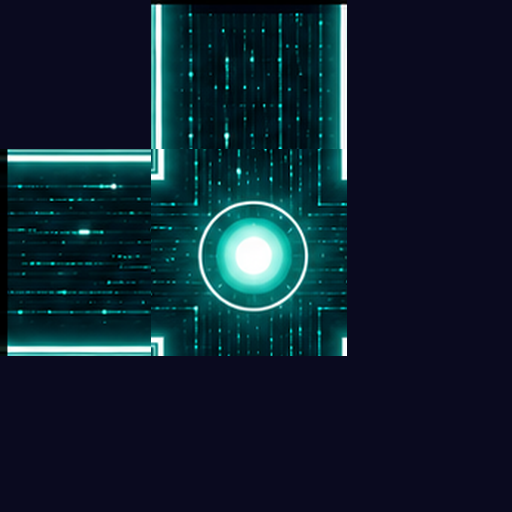
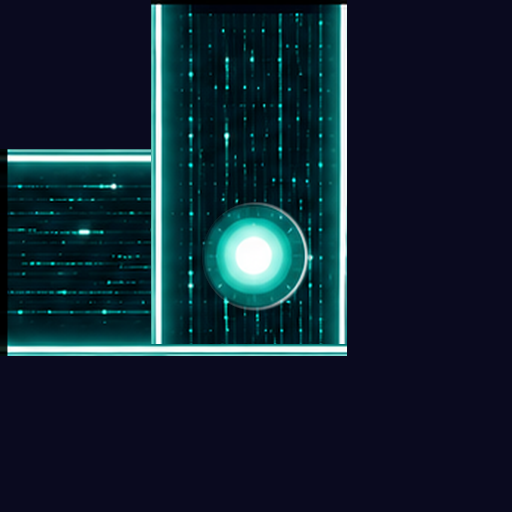
feat: v3 타일셋 + 직각 코너 합성 + 픽셀 정렬 규칙 명시
- TILE_PROMPT_V3: 모든 conduit 라인 (256,256) 통과 / 폭 204px 고정 /
  인접 타일 자연스러운 연결의 3 절대 규칙을 ALL-IN-ONE 프롬프트 상단에 명시
- 코너 4종(cor-ne/nw/se/sw): cross 중심 사용 → conduit body로 채운 후
  outer L-rail만 다시 긋고 노드는 alpha 마스크로 추출하는 방식으로 변경.
  닫힌 quadrant로 새어나오던 rail 스텁 제거.
- scripts/build-v3-tileset.py: 코너 / T / cross를 case별로 분기 처리
  (코너는 L-rail 복원, T·cross는 cross 그대로 사용)

Changed region(s): [[0.2812, 0.2812, 0.6875, 0.7188]]

diff --git a/scripts/build-v3-tileset.py b/scripts/build-v3-tileset.py
@@ -139,40 +139,120 @@ print(f'  보정 후 str-v rails (cols): {sv_rails}')
 
 
 # ---------- 3단계: corner / T 합성 ----------
+def extract_node(cross_arr, rh, rv):
+    """cross.png의 중앙에서 node 원형 + glow만 추출 (주변 rail은 제외).
+    중심에서 일정 반경 안의 픽셀만 alpha로 뽑아냄."""
+    H, W = cross_arr.shape[:2]
+    cx, cy = W // 2, H // 2
+    # node 반경 추정: 노드 코어가 충분히 들어가는 정도. cross 중앙에 원형 노드가 있다는 가정.
+    # 안전한 반경: conduit 폭의 ~25%
+    cv0, cv1 = rv
+    ch0, ch1 = rh
+    node_r = min(cv1 - cv0, ch1 - ch0) // 4  # 약 conduit의 1/4
+    yy, xx = np.ogrid[:H, :W]
+    dist = np.sqrt((xx - cx) ** 2 + (yy - cy) ** 2)
+    # 부드러운 원형 마스크 (반경 안쪽은 1, 바깥은 0, 가장자리 페이드)
+    fade = 6
+    mask = np.clip((node_r + fade - dist) / fade, 0, 1)
+    return mask  # shape (H, W), 0~1
+
+
+def fill_body_strip(out, cv0, cv1, ch0, ch1, source_arr, axis='vertical'):
+    """중앙 junction을 source_arr의 conduit body (rail 제외)로 채움."""
+    # source_arr는 str-v 또는 str-h. axis='vertical'이면 str-v를 쓰고,
+    # 중앙 부분의 conduit body를 sampling해서 junction 영역 (cv0..cv1, ch0..ch1)에 채움.
+    if axis == 'vertical':
+        # str-v의 가운데 col에서 conduit body 영역 (rail 사이)을 sampling
+        body = source_arr[ch0:ch1, cv0:cv1].copy()
+    else:
+        body = source_arr[ch0:ch1, cv0:cv1].copy()
+    out[ch0:ch1, cv0:cv1] = body
+    return out
+
+
 def make_corner(connect_top, connect_bottom, connect_left, connect_right,
                 rail_v, rail_h, with_node=True):
     """
-    합성 규칙:
-    - 수직 conduit 영역 (cols rail_v) × (rows: connect_top → 중앙 / 중앙 → connect_bottom)
-    - 수평 conduit 영역 (rows rail_h) × (cols: connect_left → 중앙 / 중앙 → connect_right)
-    - 중앙 junction (cols rail_v × rows rail_h) = cross (with node)
-    - 그 외 = base
+    합성 규칙 (직각 코너):
+    - 수직 leg: connect_top/bottom에 따라 str_v 일부 paste
+    - 수평 leg: connect_left/right에 따라 str_h 일부 paste
+    - 중앙 junction: cross 전체가 아닌 case별로 처리
+      · 코너(2-edge): str_v body로 채운 후 node만 원형 alpha 합성
+      · T(3-edge), cross(4-edge): cross 그대로 사용 (rail 4방향 다 필요)
     """
     out = np.full((TILE, TILE, 4), BASE, dtype=np.uint8)
 
     cv0, cv1 = rail_v
     ch0, ch1 = rail_h
-    mid = TILE // 2
+    n_connections = sum([connect_top, connect_bottom, connect_left, connect_right])
+    is_corner = (n_connections == 2 and (connect_top != connect_bottom) and
+                 (connect_left != connect_right))
 
     # 수직 conduit 범위
-    v_top = 0 if connect_top else ch0  # 위로 닫혀있으면 중앙 정사각형까지만
+    v_top = 0 if connect_top else ch0
     v_bot = TILE if connect_bottom else ch1
-
     # 수평 conduit 범위
     h_left = 0 if connect_left else cv0
     h_right = TILE if connect_right else cv1
 
-    # 수직 leg 그리기
+    # 수직 leg
     if connect_top or connect_bottom:
         out[v_top:v_bot, cv0:cv1] = straight_v[v_top:v_bot, cv0:cv1]
 
-    # 수평 leg 그리기
+    # 수평 leg
     if connect_left or connect_right:
         out[ch0:ch1, h_left:h_right] = straight_h[ch0:ch1, h_left:h_right]
 
-    # 중앙 junction = cross (node 포함)
-    if with_node:
-        out[ch0:ch1, cv0:cv1] = cross_arr[ch0:ch1, cv0:cv1]
+    # 중앙 junction 처리
+    if is_corner:
+        # 코너: 중앙은 str_v의 body로 채운 뒤 모서리 처리 (안쪽 rail 컷오프)
+        # 1) body 재충전: 중앙 junction의 모든 픽셀을 str_v의 conduit body로 덮어
+        out[ch0:ch1, cv0:cv1] = straight_v[ch0:ch1, cv0:cv1]
+        # 2) horizontal leg가 가져온 horizontal-rail 흔적이 중앙 junction에 남음.
+        #    위 덮어쓰기로 horizontal leg의 rail은 사라짐. 그러나 horizontal leg는
+        #    out[ch0:ch1, h_left:h_right]로 paint되어 중앙 junction의 rail은 위에서 덮였음.
+        # 3) 이제 outer L-rail(닫힌 방향의 반대편)을 다시 그어야 함.
+        #    예: ┗(top+right)에서 outer L = LEFT-of-vertical + BOTTOM-of-horizontal
+        #    이 두 rail은 이미 leg paste로 그려져 있고, 중앙 junction에서 끊어지지 않음.
+        #    하지만 inner L-rail (RIGHT-of-vertical, TOP-of-horizontal)은
+        #    원래는 inner corner까지만 그어져야 하는데, leg paste로 인해 중앙
+        #    전체로 그어짐. 위에서 body로 덮어버려서 사라짐. 그런데 outer L도 일부
+        #    덮였을 수 있음 → 다시 복원.
+
+        # 먼저 outer L-rail 복원: 닫힌 방향과 반대편의 rail을 leg에서 다시 가져와 중앙에 paste
+        rail_thick = 12  # rail 두께 추정 (rail 6px + glow 6px)
+
+        # ┗ : outer L = LEFT(vertical 좌측) + BOTTOM(horizontal 하단)
+        # ┛ : outer L = RIGHT(vertical 우측) + BOTTOM
+        # ┏ : outer L = LEFT + TOP
+        # ┓ : outer L = RIGHT + TOP
+
+        if connect_top and connect_right:  # ┗
+            # LEFT rail of vertical (cols cv0..cv0+rail_thick) — extend through center
+            out[ch0:ch1, cv0:cv0 + rail_thick] = straight_v[ch0:ch1, cv0:cv0 + rail_thick]
+            # BOTTOM rail of horizontal (rows ch1-rail_thick..ch1) — extend through center
+            out[ch1 - rail_thick:ch1, cv0:cv1] = straight_h[ch1 - rail_thick:ch1, cv0:cv1]
+        elif connect_top and connect_left:  # ┛
+            out[ch0:ch1, cv1 - rail_thick:cv1] = straight_v[ch0:ch1, cv1 - rail_thick:cv1]
+            out[ch1 - rail_thick:ch1, cv0:cv1] = straight_h[ch1 - rail_thick:ch1, cv0:cv1]
+        elif connect_bottom and connect_right:  # ┏
+            out[ch0:ch1, cv0:cv0 + rail_thick] = straight_v[ch0:ch1, cv0:cv0 + rail_thick]
+            out[ch0:ch0 + rail_thick, cv0:cv1] = straight_h[ch0:ch0 + rail_thick, cv0:cv1]
+        elif connect_bottom and connect_left:  # ┓
+            out[ch0:ch1, cv1 - rail_thick:cv1] = straight_v[ch0:ch1, cv1 - rail_thick:cv1]
+            out[ch0:ch0 + rail_thick, cv0:cv1] = straight_h[ch0:ch0 + rail_thick, cv0:cv1]
+
+        # 4) 중앙 노드 원형만 cross에서 추출해서 alpha 합성
+        if with_node:
+            mask = extract_node(cross_arr, rail_h, rail_v)  # (H, W) 0~1
+            mask3 = mask[:, :, None]
+            blended = (mask3 * cross_arr.astype(float) +
+                       (1 - mask3) * out.astype(float)).astype(np.uint8)
+            out = blended
+    else:
+        # T 또는 cross: cross 그대로 사용 (모든 방향에 rail이 있어야 함)
+        if with_node:
+            out[ch0:ch1, cv0:cv1] = cross_arr[ch0:ch1, cv0:cv1]
 
     return Image.fromarray(out)
 

diff --git a/assets/TILE_PROMPT_V3.md b/assets/TILE_PROMPT_V3.md
@@ -6,10 +6,18 @@
 - **코너**: 부드러운 곡선 → **하드 90° 직각**. 수직 conduit과 수평 conduit이 타일 중심에서 만나 정확히 90°로 꺾인다. fillet/rounding 절대 금지.
 - **일괄 생성**: 12 타일을 한 장의 4×3 그리드(2048×1536 px)로 한 번에 생성. 모든 타일이 같은 batch에서 나와야 conduit 굵기가 일치.
 
+## ⚠ 절대 규칙 3가지 (이거 어기면 타일셋 사용 불가)
+1. **모든 conduit 라인은 셀 정중앙 (256, 256)을 반드시 통과한다.**
+   직선/코너/T/Cross 어떤 타일이든 conduit 중심선이 셀의 (256, 256) 픽셀을 지나야 함. 타일 가장자리 conduit center도 항상 픽셀 256에 위치.
+2. **conduit 좌우 폭은 204 px로 모든 타일에서 절대 변하지 않는다.**
+   타일 종류와 무관하게 conduit width = 204 px (40% of 512). 직선 한가운데, 코너 꺾임 직전, T 분기점 직전 어디서든 동일.
+3. **모든 타일은 어떤 인접 조합으로 배치해도 conduit이 자연스럽게 이어져야 한다.**
+   타일 A의 RIGHT edge cross-section ≡ 타일 B의 LEFT edge cross-section (양쪽 다 conduit이 열려 있을 때). 픽셀 단위로 일치해야 하며, 1 px 어긋남도 허용 안 됨. TOP↔BOTTOM, LEFT↔RIGHT 모두 동일 규칙.
+
 ## 픽셀 정렬 스펙 (절대 변경 불가)
 - 셀 크기: 512×512
 - conduit 굵기: 정확히 **타일의 40% = 204 px** (모든 셀 동일)
-- conduit 중심선: 타일/셀 정중앙 (px 256)
+- conduit 중심선: 타일/셀 정중앙 (px 256, 모든 conduit 라인이 (256, 256) 통과)
 - conduit 가장자리: **px 154 ~ px 358** (= 256 ± 102)
 - 직각 코너: 수직 conduit(cols 154–358)과 수평 conduit(rows 154–358)이 타일 중앙의 **204×204 정사각형**(x:154–358, y:154–358)에서 겹침. 이 안쪽이 코너 junction.
 - base 색: `#0a0a1f` (모든 타일 4 모서리)
@@ -23,6 +31,39 @@ Generate ONE 2048x1536 image arranged as a STRICT 4-column × 3-row grid
 of TILES for a neon tower-defense game tileset. Each cell is exactly
 512x512 px. Cells will be sliced apart and used as standalone tiles —
 treat every cell as an independent tile, not as panels of a single picture.
+
+══════════════════════════════════════════════════════════════════════
+THREE NON-NEGOTIABLE RULES (the entire tileset is unusable if any fail):
+
+  RULE 1 — CENTER CROSSING:
+    EVERY conduit line in EVERY cell MUST pass through the cell's exact
+    center pixel at (x=256, y=256). Whether the cell is a straight, corner,
+    T-junction, or 4-way cross, every conduit's centerline crosses (256, 256).
+    Any conduit reaching a cell edge must have its centerline at pixel 256
+    of that edge — no offsets, no off-center placements.
+
+  RULE 2 — CONSTANT WIDTH:
+    Conduit width = exactly 204 px (40% of the 512 cell). This width is
+    IDENTICAL across all 12 tiles AND constant within each tile (it does
+    NOT widen at junctions or narrow at corners). Conduit edges always at
+    pixel 154 and pixel 358 of the perpendicular axis. Never thicker,
+    never thinner, never at any other position.
+
+  RULE 3 — SEAMLESS TILING:
+    Tiles will be placed adjacent to each other in-game. Any pair of tiles
+    placed side-by-side MUST connect with zero pixel mismatch:
+      • A cell's RIGHT edge (cols 504–511, rows 154–358) must be a pixel-
+        identical cross-section to any other cell's LEFT edge (cols 0–7,
+        rows 154–358).
+      • Same for TOP↔BOTTOM along rows 0–7 vs rows 504–511 within cols
+        154–358.
+    Concretely: at every connecting edge, the same rail positions, same
+    rail brightness, same body texture, same outer-glow falloff. If a cell
+    has a closed edge, that edge is pure #0a0a1f (no leakage).
+
+  These three rules trump every other consideration. Failing any of them
+  produces a broken tileset. They apply EQUALLY to every cell.
+══════════════════════════════════════════════════════════════════════
 
 GLOBAL VISUAL — "Neon Data-Stream Conduit" (futuristic, NO hex / NO honeycomb)
 A glowing teal conduit composed of (outer → inner):
@@ -43,12 +84,23 @@ A glowing teal conduit composed of (outer → inner):
      ABSOLUTELY NO hexagons, honeycomb, tessellation, or repeating
      geometric grids inside the conduit.
 
-ABSOLUTE GEOMETRY — IDENTICAL ACROSS EVERY CELL:
-  • Conduit width = exactly 204 px (40% of 512). NEVER varies.
+ABSOLUTE GEOMETRY — IDENTICAL ACROSS EVERY CELL (enforces RULES 1 & 2):
+  • Conduit width = exactly 204 px (40% of 512). NEVER varies, NOT EVEN by
+    one pixel, between cells or within a cell.
   • Conduit edges fall at pixel 154 and pixel 358 along the perpendicular axis.
-  • Conduit centerline at pixel 256 (cell-local coords).
-  • Outer rails at px 154–159 and px 353–358.
+  • Conduit centerline at pixel 256. Every conduit line passes through (256, 256).
+  • Outer rails at px 154–159 and px 353–358 — same in every tile.
   • Tile base color #0a0a1f. All 4 corner pixels of every cell = #0a0a1f.
+
+SELF-CHECK BEFORE FINALIZING (mentally walk through):
+  ☐ For every cell, does the conduit's centerline pass through (256, 256)?
+  ☐ Is the conduit width exactly 204 px in every cell, with no widening
+    at junctions or narrowing at bends?
+  ☐ If I take cell A's RIGHT edge cross-section and cell B's LEFT edge
+    cross-section (both with right/left connections open), do they match
+    pixel-for-pixel? Same rails, same body, same glow.
+  ☐ Are closed edges totally clean (#0a0a1f only) with no rail/glow leaking?
+  If any answer is "no", the tileset is broken — fix before output.
 
 EDGE RULES (per cell):
   • CONNECTING EDGE: conduit (rails + interior fill + streaks) reaches the
